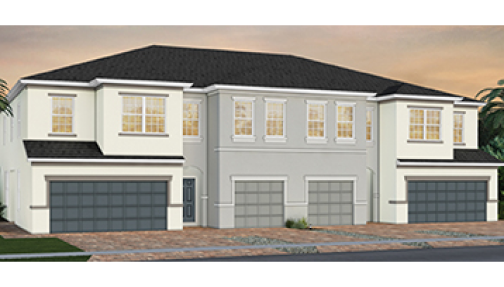
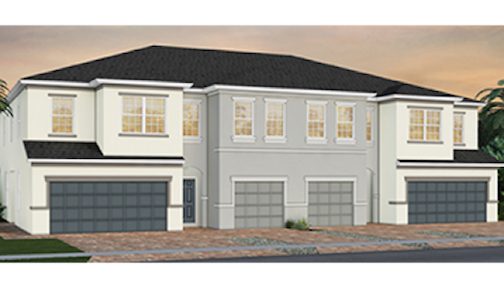
image and mobile updates

diff --git a/components/HeartForHouseComponents/HeartForHouseFutureSection.js b/components/HeartForHouseComponents/HeartForHouseFutureSection.js
@@ -8,21 +8,21 @@ const HeartForHouseFutureSection = () => {
       title:
         '<div style="color: #E63E51; font-size: 36px; margin-bottom: 12px; font-weight: bold; text-decoration: underline;">BOCA RATON</div>',
       description:
-        'Christ Fellowship Boca Raton has experienced exponential growth ever since opening its doors. While our original plans included the demolition of our current site to build a 400-seat auditorium, we realized the current growth trajectory would eventually outgrow those plans! As we began to pray, God opened new doors right down the road. <br/><br/>Earlier this year, we purchased the former Macy’s Furniture Store on Glades Road—a 50,000-square-foot building, sitting on 5 acres of land that we intend to transform into a 1,000-seat sanctuary with ample space for ministry for every generation. <div  style="display: inline; color: #E63E51;">With a population of nearly 100,000 people, a large majority being unchurched—Boca Raton boasts opportunities to reach people for Jesus!</div> We anticipate this new home will be ready by Christmas 2025, as we transform this store into a place for God to do exceedingly more!',
-      image: '/heart-for-house/future-boca.png',
+        'Christ Fellowship Boca Raton has experienced exponential growth ever since opening its doors. While our original plans included the demolition of our current site to build a 400-seat auditorium, we realized the current growth trajectory would eventually outgrow those plans! As we began to pray, God opened new doors right down the road. <br/><br/>Earlier this year, we purchased the former Macy’s Furniture Store on Glades Road—a 50,000-square-foot building, sitting on 5 acres of land that we intend to transform into a 1,000-seat sanctuary with ample space for ministry for every generation. <div  style="display: inline; font-weight: bold; color: #E63E51;">With a population of nearly 100,000 people, a large majority being unchurched—Boca Raton boasts opportunities to reach people for Jesus!</div> We anticipate this new home will be ready by Christmas 2025, as we transform this store into a place for God to do exceedingly more!',
+      image: '/heart-for-house/future-boca.jpeg',
     },
     {
       title:
         '<div style="color: #E63E51; font-size: 36px; margin-bottom: 12px; font-weight: bold; text-decoration: underline;">JUPITER</div>',
       description:
-        'Last year, we shared the news that we were finally planting permanent roots in the town of Jupiter as we purchased the former Jupiter Fitness Center building located in the heart of Jupiter on Indiantown Road. Our plans include a complete renovation of the 20,000-square-foot space into a 400-seat sanctuary. But while awaiting these renovations and continuing to meet at the Wyndham Grand, God opened a door right next door. <br/><br/>After six years as a portable campus, in the Fall of 2023, Christ Fellowship Jupiter moved into its first-ever permanent location—a move-in ready, former church building located in the same parking lot as our future location! <div style="display: inline; color: #E63E51;">Once the new building is renovated, we will be able to use both spaces for multi-generational ministry, including ample space for kids, students, and classes.</div> We anticipate opening the doors by Easter 2025—transforming this space where people worked out to a place where people can work out their faith and grow in their relationship with Jesus! ',
+        'Last year, we shared the news that we were finally planting permanent roots in the town of Jupiter as we purchased the former Jupiter Fitness Center building located in the heart of Jupiter on Indiantown Road. Our plans include a complete renovation of the 20,000-square-foot space into a 400-seat sanctuary. But while awaiting these renovations and continuing to meet at the Wyndham Grand, God opened a door right next door. <br/><br/>After six years as a portable campus, in the Fall of 2023, Christ Fellowship Jupiter moved into its first-ever permanent location—a move-in ready, former church building located in the same parking lot as our future location! <div style="display: inline; font-weight: bold;  color: #E63E51;">Once the new building is renovated, we will be able to use both spaces for multi-generational ministry, including ample space for kids, students, and classes.</div> We anticipate opening the doors by Easter 2025—transforming this space where people worked out to a place where people can work out their faith and grow in their relationship with Jesus! ',
       image: '/heart-for-house/future-jupiter.jpeg',
     },
     {
       title:
         '<div style="color: #E63E51; font-size: 36px; margin-bottom: 12px; font-weight: bold;">CFSEU<div style="margin-left: 6px; display: inline; text-decoration: underline;">HOUSING</div></div> ',
       description:
-        'As a part of our Get There First initiative, we are expanding Southeastern University at Christ Fellowship (CFSEU) in the years to come—with a vision to provide outstanding Christian leadership training through accredited classes for Dual Enrollment, Undergraduate, and Master’s Degrees.<br/><br/> We have a conceptual plan to build a <div style="display: inline; color: #E63E51"> multi-unit residence that will house both students and resident interns</div>—opening enrollment for prospective students across the country, and making CFSEU a premier destination in Christian education! As a first step in this large project, this year, we’ll be starting underground work and preparing the land for construction.',
+        'As a part of our Get There First initiative, we are expanding Southeastern University at Christ Fellowship (CFSEU) in the years to come—with a vision to provide outstanding Christian leadership training through accredited classes for Dual Enrollment, Undergraduate, and Master’s Degrees.<br/><br/> We have a conceptual plan to build a <div style="display: inline; font-weight: bold; color: #E63E51"> multi-unit residence that will house both students and resident interns</div>—opening enrollment for prospective students across the country, and making CFSEU a premier destination in Christian education! As a first step in this large project, this year, we’ll be starting underground work and preparing the land for construction.',
       image: '/heart-for-house/future-cfseu.png',
     },
   ];
@@ -59,7 +59,7 @@ const HeartForHouseFutureSection = () => {
         WHY WE'RE GIVING
       </Box>
       {/* Section 1 */}
-      <Box my="xl">
+      <Box my="l">
         <HeartForHouseContentBlock
           title={contentBlockSections[0].title}
           description={contentBlockSections[0].description}
@@ -68,7 +68,7 @@ const HeartForHouseFutureSection = () => {
         />
       </Box>
       {/* Section 2 */}
-      <Box my="xl">
+      <Box my="l">
         <HeartForHouseContentBlock
           title={contentBlockSections[1].title}
           description={contentBlockSections[1].description}
@@ -77,7 +77,7 @@ const HeartForHouseFutureSection = () => {
         />
       </Box>
       {/* Section 3 */}
-      <Box my="xl">
+      <Box my="l">
         <HeartForHouseContentBlock
           title={contentBlockSections[2].title}
           description={contentBlockSections[2].description}
@@ -86,6 +86,7 @@ const HeartForHouseFutureSection = () => {
         />
       </Box>
       <Button
+        mt="l"
         as="a"
         href="https://issuu.com/christfellowshipchurch/docs/clients_heartforthehouse_print_handouts_7.5x10_dig/16?fr=sNWI3MDcyMzY3MDE"
         target="_blank"

diff --git a/components/HeartForHouseContentBlock/HearForHouseContentBlock.js b/components/HeartForHouseContentBlock/HearForHouseContentBlock.js
@@ -6,21 +6,34 @@ const HeartForHouseContentBlock = props => {
   console.log(props);
 
   return (
-    <Box display="flex" alignItems="center">
+    <Box
+      display="flex"
+      mx={{ _: 'base', md: '0' }}
+      flexDirection={{ _: 'column', md: 'row' }}
+      alignItems="center"
+    >
       <Image
-        display={props?.layout === 'left' ? 'block' : 'none'}
+        display={{
+          _: 'block',
+          md: props?.layout === 'left' ? 'block' : 'none',
+        }}
         source={props?.image}
-        width={500}
-        height={300}
+        width={{ _: '90vw', md: 500 }}
+        height={{ _: 200, md: 300 }}
         borderRadius={0}
+        m={0}
         mr={{ _: '0', md: 'base' }}
+        mb={{ _: 'base', md: 0 }}
       />
       <Box maxWidth={{ _: '90vw', md: 600 }}>
         <HtmlRenderer htmlContent={props?.title} />
         <HtmlRenderer htmlContent={props?.description} />
       </Box>
       <Image
-        display={props?.layout === 'right' ? 'block' : 'none'}
+        display={{
+          _: 'none',
+          md: props?.layout === 'right' ? 'block' : 'none',
+        }}
         source={props?.image}
         width={500}
         height={300}
